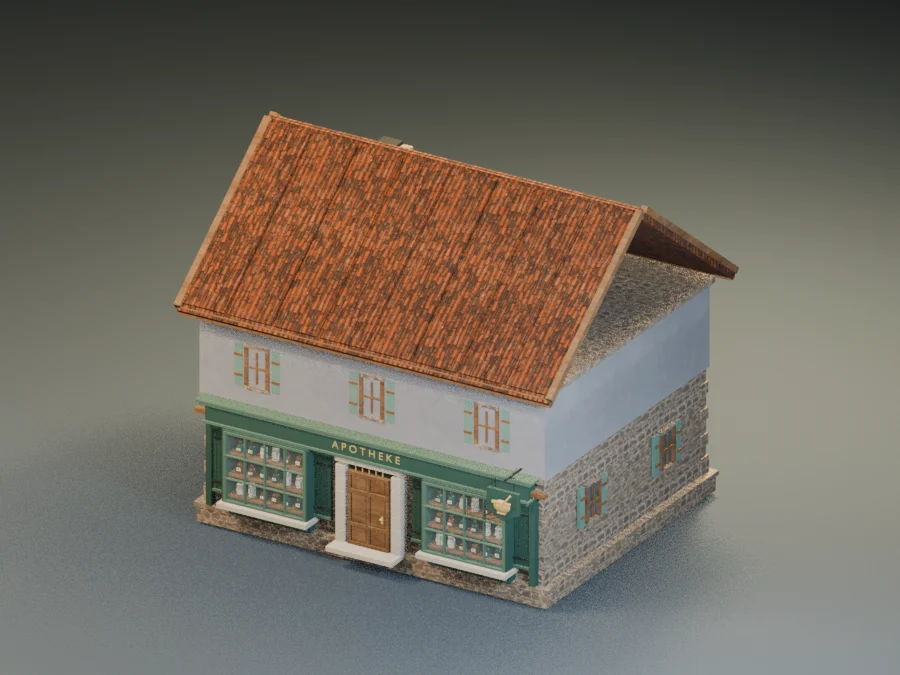
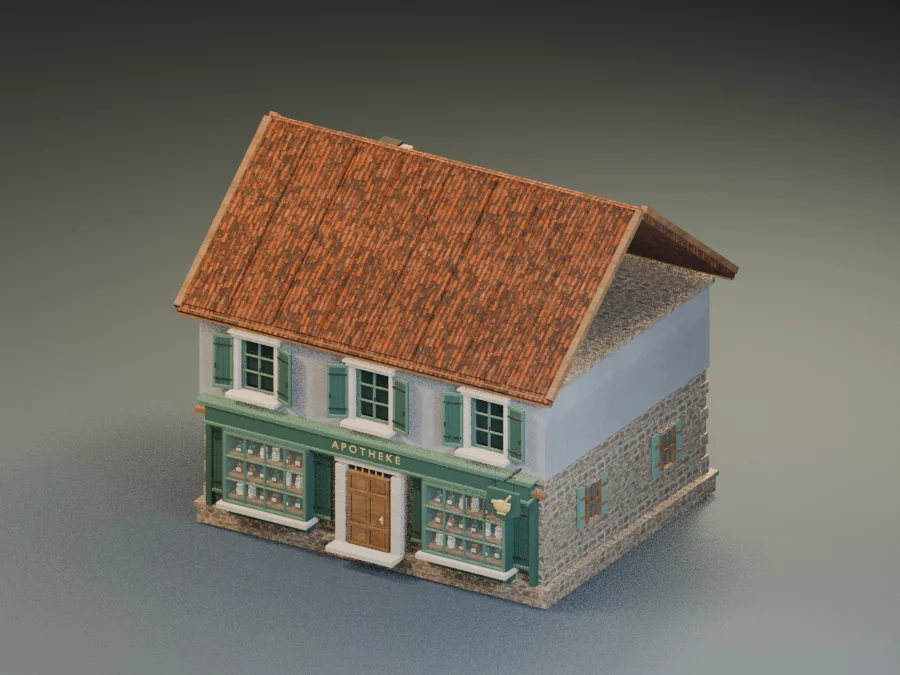
Show recessed apothecary casements and detailed hinged shutters

Changed region(s): [[0.2178, 0.4667, 0.5911, 0.7156]]

diff --git a/site/index.html b/site/index.html
@@ -328,8 +328,8 @@ footer{padding:18px 0 30px;border-top:1px solid var(--line);color:#87918c;font-s
   </a>
   <div class="caption"><div class="eyebrow">World</div><h3>Early-19th-century town buildings</h3><p>Fourteen reusable plaster, masonry, timber, and tiled-roof models used across 22 city placements</p><span class="credit">Big Sim original building models</span></div>
 </article><article class="card" data-category="World" data-detail="true">
-  <a class="image" href="images/gallery/apothecary-shopfront-detail.webp?v=apothecary-rebuild-20261024" aria-label="Open full size image: Apothecary shopfront">
-    <img src="images/gallery/apothecary-shopfront-detail.webp?v=apothecary-rebuild-20261024" alt="Apothecary shopfront — Stocked glazed display cases, painted timber joinery, an oak doorway, gilded APOTHEKE lettering, and a hanging pharmacy shield" loading="lazy">
+  <a class="image" href="images/gallery/apothecary-shopfront-detail.webp?v=apothecary-upper-20261024" aria-label="Open full size image: Apothecary shopfront">
+    <img src="images/gallery/apothecary-shopfront-detail.webp?v=apothecary-upper-20261024" alt="Apothecary shopfront — Stocked glazed display cases, painted timber joinery, an oak doorway, gilded APOTHEKE lettering, and a hanging pharmacy shield" loading="lazy">
     <span class="number">40</span>
   </a>
   <div class="caption"><div class="eyebrow">World</div><h3>Apothecary shopfront</h3><p>Stocked glazed display cases, painted timber joinery, an oak doorway, gilded APOTHEKE lettering, and a hanging pharmacy shield.</p><span class="credit">Big Sim original building detail</span></div>

diff --git a/site/world-battlefield.html b/site/world-battlefield.html
@@ -129,8 +129,8 @@ footer a{color:var(--gold)}
   </a>
   <div class="caption"><div class="eyebrow">World</div><h3>Early-19th-century town buildings</h3><p>Fourteen reusable plaster, masonry, timber, and tiled-roof models used across 22 city placements</p><span class="credit">Big Sim original building models</span></div>
 </article><article class="card">
-  <a class="image" href="images/gallery/apothecary-shopfront-detail.webp?v=apothecary-rebuild-20261024" aria-label="Open full size image: Apothecary shopfront">
-    <img src="images/gallery/apothecary-shopfront-detail.webp?v=apothecary-rebuild-20261024" alt="Apothecary shopfront — Stocked glazed display cases, painted timber joinery, an oak doorway, gilded APOTHEKE lettering, and a hanging pharmacy shield" loading="lazy">
+  <a class="image" href="images/gallery/apothecary-shopfront-detail.webp?v=apothecary-upper-20261024" aria-label="Open full size image: Apothecary shopfront">
+    <img src="images/gallery/apothecary-shopfront-detail.webp?v=apothecary-upper-20261024" alt="Apothecary shopfront — Stocked glazed display cases, painted timber joinery, an oak doorway, gilded APOTHEKE lettering, and a hanging pharmacy shield" loading="lazy">
   </a>
   <div class="caption"><div class="eyebrow">World</div><h3>Apothecary shopfront</h3><p>Stocked glazed display cases, painted timber joinery, an oak doorway, gilded APOTHEKE lettering, and a hanging pharmacy shield.</p><span class="credit">Big Sim original building detail</span></div>
 </article><article class="card">

diff --git a/site/model-closeups.html b/site/model-closeups.html
@@ -330,8 +330,8 @@ footer a{color:var(--gold)}
   </a>
   <div class="caption"><div class="eyebrow">Town interiors</div><h3>Warehouse Ground</h3><p>Close-up studio render of the exported Warehouse Ground model.</p><span class="credit">Big Sim model · see CREDITS.md for source notes</span><code class="source">art/city_buildings/interiors/warehouse_ground.glb</code></div>
 </article><article class="card">
-  <a class="image" href="images/gallery/model-closeup-art-city-buildings-models-apothecary.webp?v=apothecary-rebuild-20261024" aria-label="Open full size image: Apothecary">
-    <img src="images/gallery/model-closeup-art-city-buildings-models-apothecary.webp?v=apothecary-rebuild-20261024" alt="Apothecary — Close-up studio render of the exported Apothecary model." loading="lazy">
+  <a class="image" href="images/gallery/model-closeup-art-city-buildings-models-apothecary.webp?v=apothecary-upper-20261024" aria-label="Open full size image: Apothecary">
+    <img src="images/gallery/model-closeup-art-city-buildings-models-apothecary.webp?v=apothecary-upper-20261024" alt="Apothecary — Close-up studio render of the exported Apothecary model." loading="lazy">
   </a>
   <div class="caption"><div class="eyebrow">Town exteriors</div><h3>Apothecary</h3><p>Close-up studio render of the exported Apothecary model.</p><span class="credit">Big Sim model · see CREDITS.md for source notes</span><code class="source">art/city_buildings/models/apothecary.glb</code></div>
 </article><article class="card">
